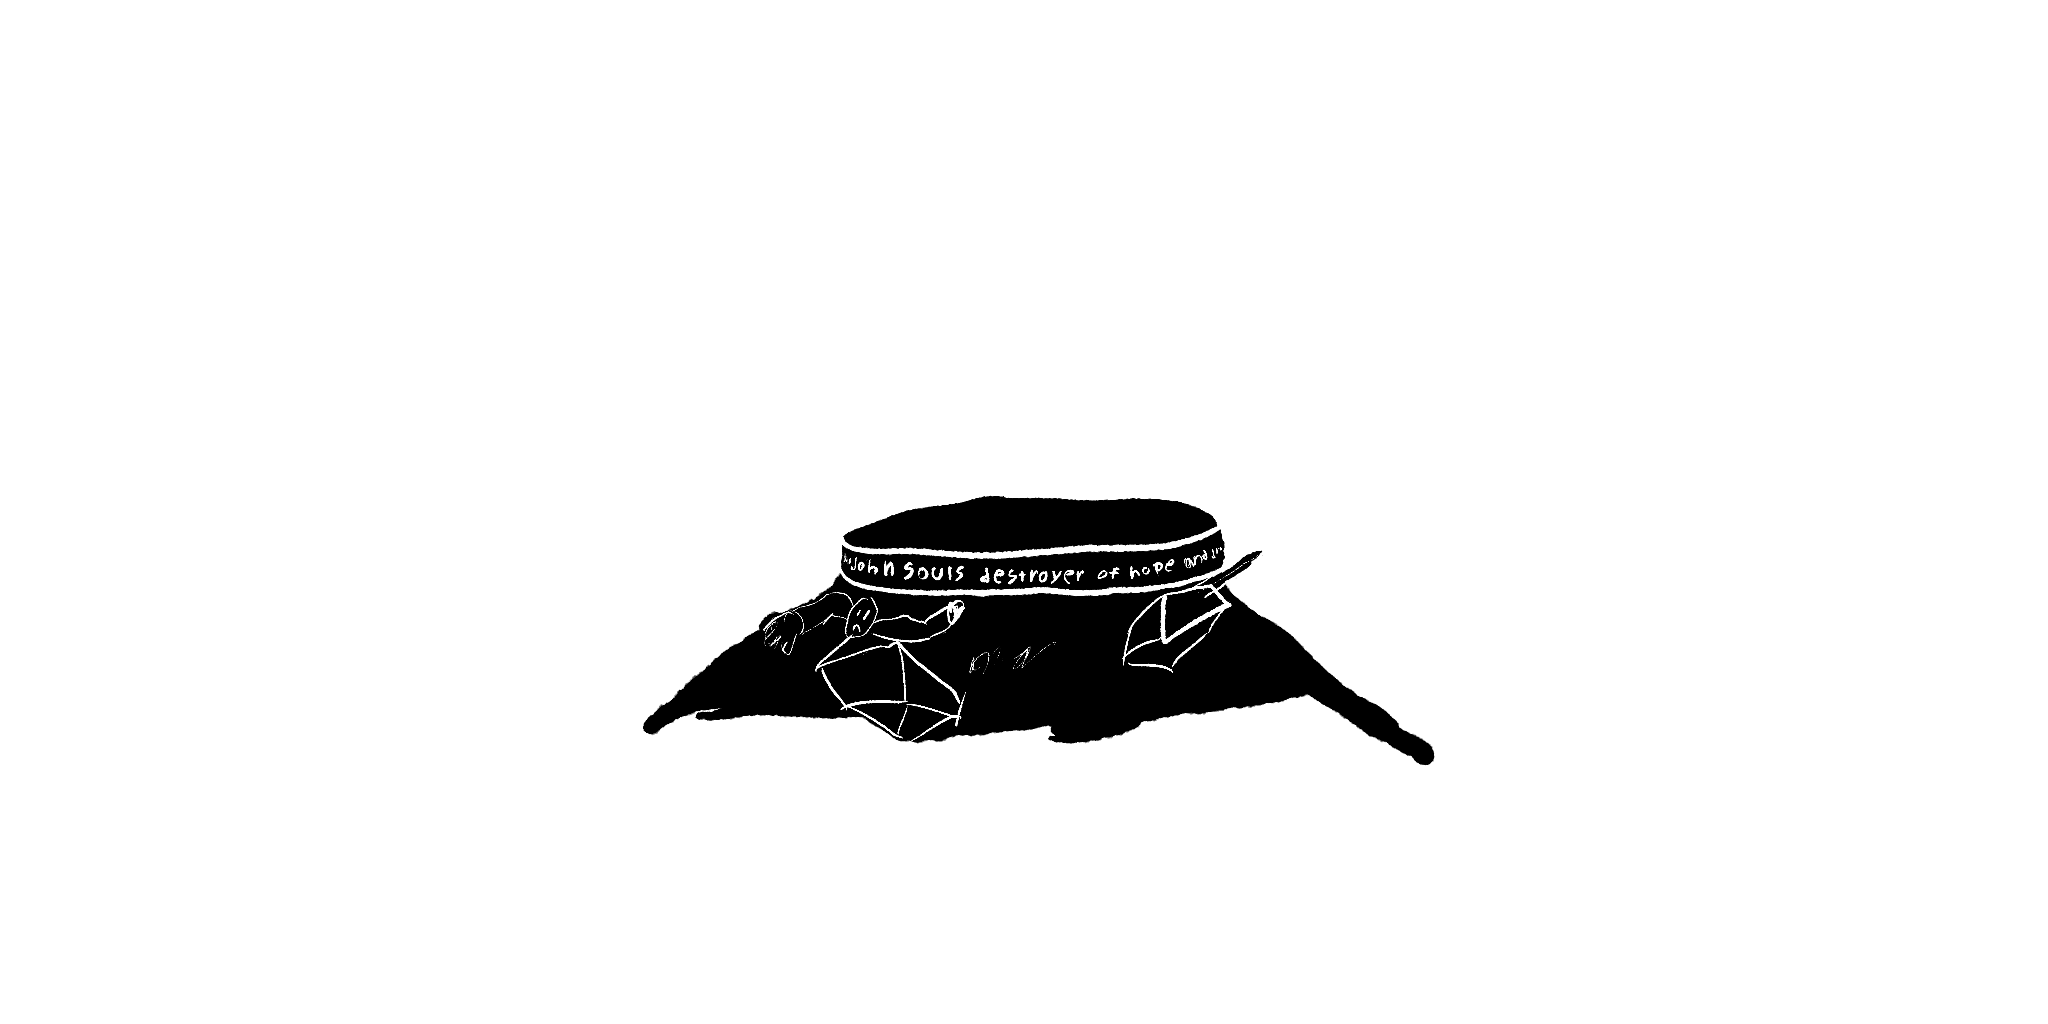
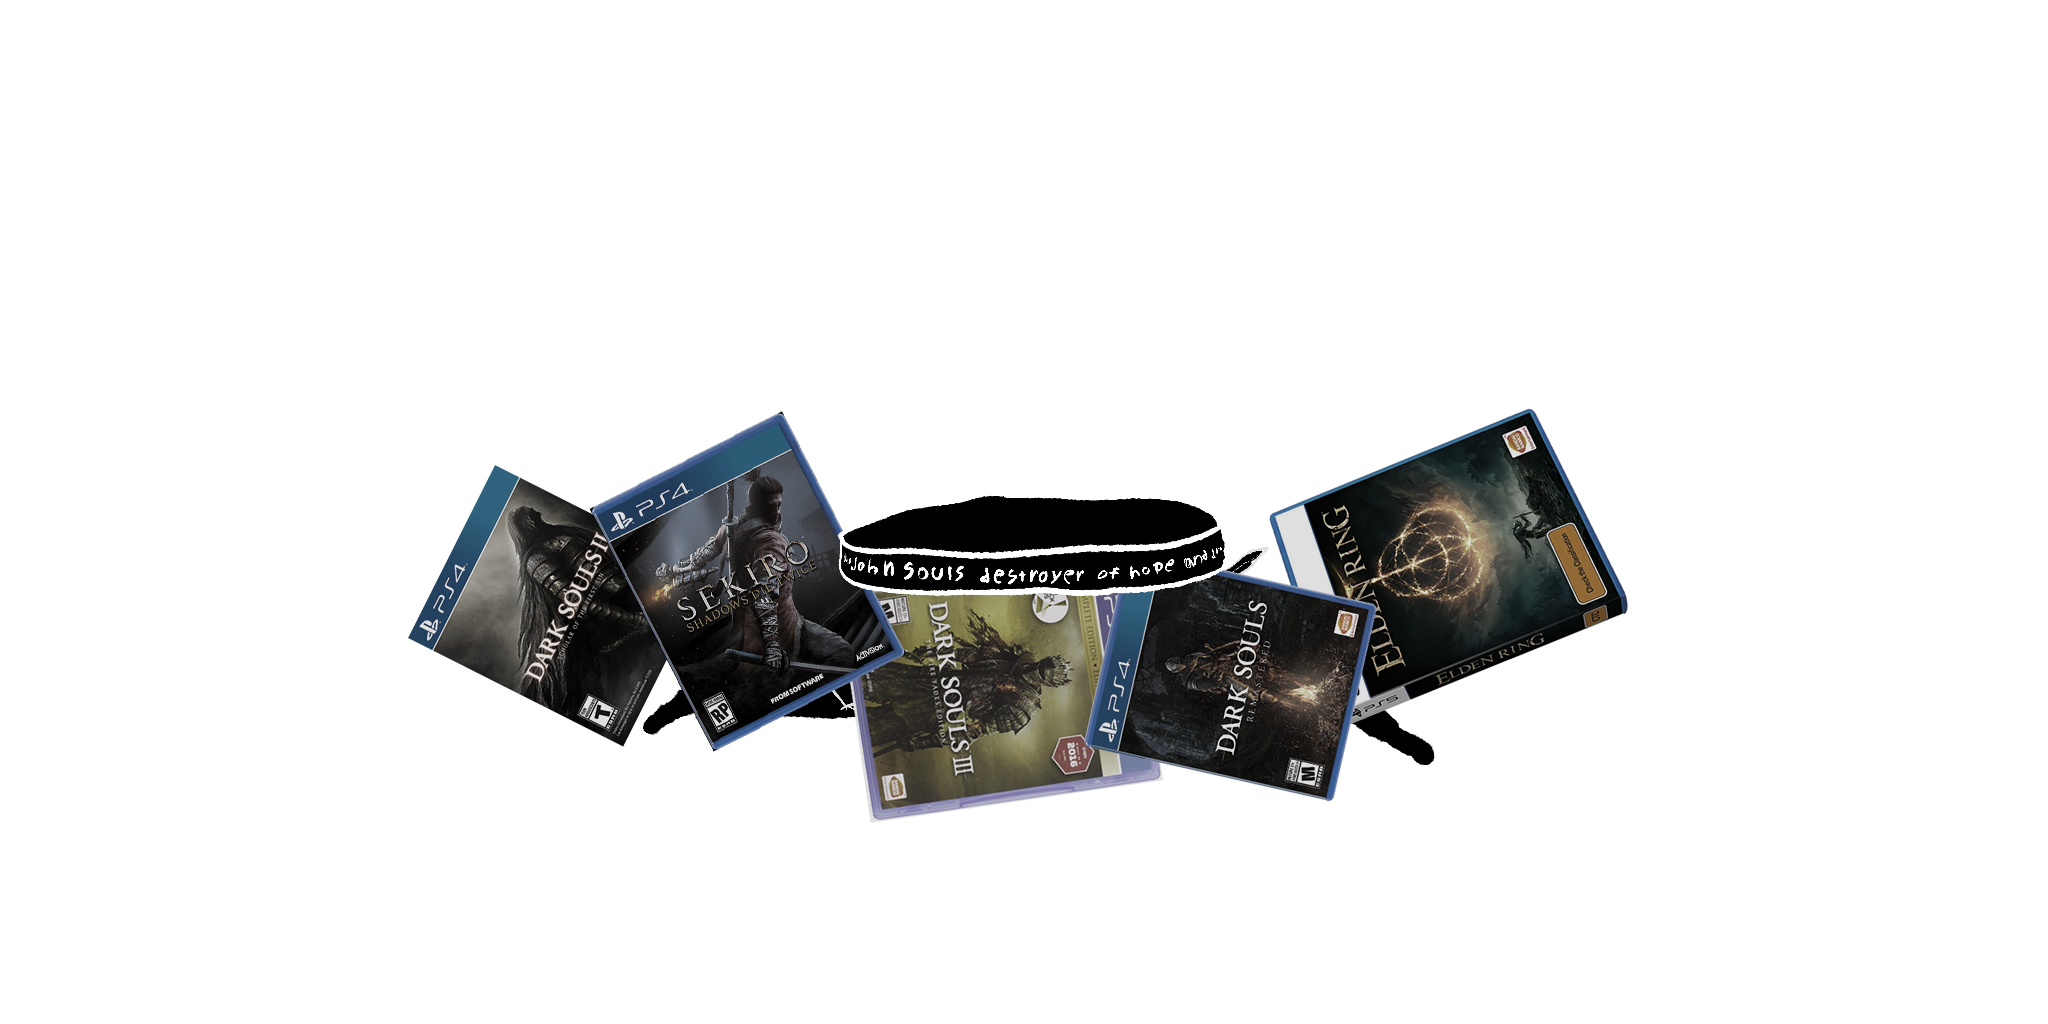
add floating game boxes

Changed region(s): [[0.1875, 0.4062, 0.8125, 0.8125]]

diff --git a/src/main.js b/src/main.js
@@ -58,6 +58,8 @@ camera.lookAt(0, 2.5, 0);
 
 const scene = new THREE.Scene();
 const renderer = new THREE.WebGLRenderer({ antialias: true });
+window.maxAnisotropy = renderer.capabilities.getMaxAnisotropy();
+
 renderer.setSize(window.innerWidth, window.innerHeight);
 
 function resize() {
@@ -94,6 +96,15 @@ function draw() {
 		}
 	}
 	lastFrame = Date.now();
+
+
+	for (let i = 0; i < boxArts.length; i++) {
+		const element = boxArts[i];
+		const p = Date.now() / 10000 + (i / boxArts.length) * Math.PI * 2;
+		element.position.x = Math.sin(p) * 5 + johnSoulsMesh.position.x;
+		element.position.z = Math.cos(p) * 5 + johnSoulsMesh.position.z;
+		element.rotation.z += delta * 0.1;
+	}
 
 
 	renderer.render(scene, camera);
@@ -227,23 +238,41 @@ const JohnHat = new THREE.Mesh(
 		color: 0xaaaaaa,
 	})
 )
+JohnHat.geometry.rotateY(Math.PI / 2);
 JohnHat.position.y += hatSize * 0.5 + JohnHeight * 0.16;
 JohnHat.position.x += JohnWidth * 0.118;
 johnSoulsMesh.add(JohnHat);
 
-const groundSize = 13;
 
-import floorImageURL from "./floor.png";
-const groundPlane = new THREE.Mesh(
-	new THREE.PlaneBufferGeometry(groundSize * 2, groundSize),
-	new THREE.MeshBasicMaterial({
-		map: new THREE.TextureLoader().load(floorImageURL),
-		transparent: true,
-	})
-);
-groundPlane.position.z = johnSoulsMesh.position.z - 1.1;
+/* game boxes */
+import newBoxArt from './boxart';
 
-scene.add(groundPlane);
+import demonsoulsURL from './games/demonsouls.png';
+const gamebox = newBoxArt(demonsoulsURL);
+gamebox.position.z = -3.8;
+gamebox.position.y = -0.35;
+gamebox.rotation.set(-Math.PI * 0.45, 0.02, 0.6 + Math.random() * 3);
+setInterval(() => {
+	gamebox.rotation.z += 0.0005;
+}, 16)
+scene.add(gamebox);
+
+
+import darkSoulsURL from './games/darksouls.png';
+import darkSouls2URL from './games/darksouls2.png';
+import darkSouls3URL from './games/darksouls3.png';
+import eldenringURL from './games/eldenring.png';
+const boxArts = [
+	newBoxArt(darkSoulsURL),
+	newBoxArt(darkSouls2URL),
+	newBoxArt(darkSouls3URL),
+	newBoxArt(eldenringURL),
+];
+for (let i = 0; i < boxArts.length; i++) {
+	scene.add(boxArts[i]);
+	boxArts[i].rotation.set(Math.random() * Math.PI * 2, Math.random() * Math.PI * 2, Math.random() * Math.PI * 2);
+	boxArts[i].scale.setScalar(2);
+}
 
 
 import generateShimmeryMat from "./shimmeryMaterial";
@@ -252,16 +281,16 @@ import generateCloudMat from "./cloudMaterial";
 
 
 scene.background = new THREE.Color(0x000E16);
-scene.fog = new THREE.Fog(0x000E16, 6, 160);
+scene.fog = new THREE.Fog(scene.background, 6, 160);
 
 
 const cloudGeometry = new THREE.PlaneBufferGeometry(400, 160, 1, 1);
 const cloudUniforms = {
-	u_time: { value: Math.random()*10000 },
+	u_time: { value: Math.random() * 10000 },
 }
 const cloudCanvas = document.createElement('canvas');
 const cloudCTX = cloudCanvas.getContext('2d');
-cloudCTX.fillStyle = '#fff';
+cloudCTX.fillStyle = "#ffffff";
 cloudCTX.fillRect(0, 0, cloudCanvas.width, cloudCanvas.height);
 const cloudMaterial = generateCloudMat({
 	map: new THREE.CanvasTexture(cloudCanvas),
@@ -283,3 +312,7 @@ scene.add(backLight1);
 const backLight2 = new THREE.DirectionalLight(0xffffff, 0.5);
 backLight2.position.set(0, 1, -1);
 scene.add(backLight2);
+
+const frontLight = new THREE.DirectionalLight(0xffffff, 0.15);
+frontLight.position.set(0, 0, 1);
+scene.add(frontLight);

diff --git a/src/index.html b/src/index.html
@@ -6,112 +6,6 @@
 	<meta http-equiv="X-UA-Compatible" content="IE=edge">
 	<meta name="viewport" content="width=device-width, initial-scale=1.0">
 	<title>John Souls</title>
-	<!--a fragment shader for perlin noise-->
-	<script id="SimpleVertexShader" type="x-shader/x-vertex">
-		varying vec2 vUv;
-		void main()
-		{
-			vUv = uv;
-			vec4 mvPosition = modelViewMatrix * vec4( position, 1.0 );
-			gl_Position = projectionMatrix * mvPosition;
-		}
-	</script>
-	<script id="simplexFragmentShader" type="x-shader/x-fragment">
-		#ifdef GL_ES
-		precision lowp float;
-		#endif
-		
-		uniform float u_time;
-		varying vec2 vUv;
-		
-		vec3 mod289(vec3 x) {
-			return x - floor(x * (1.0 / 289.0)) * 289.0;
-		}
-		vec4 mod289(vec4 x) {
-			return x - floor(x * (1.0 / 289.0)) * 289.0;
-		}
-		vec4 permute(vec4 x) {
-			return mod289(((x * 34.0) + 10.0) * x);
-		}
-		vec4 taylorInvSqrt(vec4 r) {
-			return 1.79284291400159 - 0.85373472095314 * r;
-		}
-		float snoise(vec3 v) {
-			const vec2  C = vec2(1.0 / 6.0, 1.0 / 3.0);
-			const vec4  D = vec4(0.0, 0.5, 1.0, 2.0);
-			
-			vec3 i = floor(v + dot(v, C.yyy));
-			vec3 x0 = v - i + dot(i, C.xxx);
-		
-			vec3 g = step(x0.yzx, x0.xyz);
-			vec3 l = 1.0 - g;
-			vec3 i1 = min(g.xyz, l.zxy);
-			vec3 i2 = max(g.xyz, l.zxy);
-		
-			vec3 x1 = x0 - i1 + C.xxx;
-			vec3 x2 = x0 - i2 + C.yyy; 
-			vec3 x3 = x0 - D.yyy;      
-		
-			i = mod289(i); 
-			vec4 p = permute(permute(permute( i.z + vec4(0.0, i1.z, i2.z, 1.0)) + i.y + vec4(0.0, i1.y, i2.y, 1.0)) + i.x + vec4(0.0, i1.x, i2.x, 1.0));
-		
-			float n_ = 0.142857142857; 
-			vec3  ns = n_ * D.wyz - D.xzx;
-			vec4 j = p - 49.0 * floor(p * ns.z * ns.z);  
-			vec4 x_ = floor(j * ns.z);
-			vec4 y_ = floor(j - 7.0 * x_);    
-			vec4 x = x_ * ns.x + ns.yyyy;
-			vec4 y = y_ * ns.x + ns.yyyy;
-			vec4 h = 1.0 - abs(x) - abs(y);
-			vec4 b0 = vec4(x.xy, y.xy);
-			vec4 b1 = vec4(x.zw, y.zw);
-		
-			vec4 s0 = floor(b0) * 2.0 + 1.0;
-			vec4 s1 = floor(b1) * 2.0 + 1.0;
-			vec4 sh = -step(h, vec4(0.0));
-			vec4 a0 = b0.xzyw + s0.xzyw * sh.xxyy;
-			vec4 a1 = b1.xzyw + s1.xzyw * sh.zzww;
-			vec3 p0 = vec3(a0.xy, h.x);
-			vec3 p1 = vec3(a0.zw, h.y);
-			vec3 p2 = vec3(a1.xy, h.z);
-			vec3 p3 = vec3(a1.zw, h.w);
-		
-			vec4 norm = taylorInvSqrt(vec4(dot(p0, p0), dot(p1, p1), dot(p2, p2), dot(p3, p3)));
-				p0 *= norm.x;
-				p1 *= norm.y;
-				p2 *= norm.z;
-				p3 *= norm.w;
-
-			vec4 m = max(0.5 - vec4(dot(x0, x0), dot(x1, x1), dot(x2, x2), dot(x3, x3)), 0.0);
-			m = m * m;
-			return 105.0 * dot(m * m, vec4(dot(p0, x0), dot(p1, x1), dot(p2, x2), dot(p3, x3)));
-		}
-
-		vec3 dim = vec3(0.0, 0.09, 0.149);
-
-		// original vec3(1.0, 0.93, 0.43);
-		vec3 highlight = vec3(0.045 * 1.4, 0.09 * 1.4, 0.149 * 1.4);
-		
-		void main() {
-
-			vec2 st = vUv;
-			st.x *= 1.0;
-		
-			vec3 color = vec3(0.0);
-		
-			// Scale the space in order to see the function
-			st *= 10.;
-
-			float alpha = .5 - snoise(vec3(st.x, st.y - u_time * 0.1, u_time * 0.01));
-			float mixVariable = alpha;
-			gl_FragColor = vec4(
-				mix(dim.x, highlight.x, mixVariable),
-				mix(dim.y, highlight.y, mixVariable),
-				mix(dim.z, highlight.z, mixVariable),
-				min(1.0, alpha) * 0.7
-			);
-		}
-	</script>
 </head>
 
 <body>

diff --git a/src/boxart.js b/src/boxart.js
@@ -1,0 +1,93 @@
+import * as THREE from 'three';
+
+const width = 0.8, height = 1;
+
+const shape = new THREE.Shape();
+shape.moveTo(0, 0);
+shape.lineTo(0, height);
+shape.lineTo(width, height);
+shape.lineTo(width, 0);
+shape.lineTo(0, 0);
+
+const extrudeSettings = {
+	steps: 2,
+	depth: 0.01,
+	bevelEnabled: true,
+	bevelThickness: 0.02,
+	bevelSize: 0.02,
+	bevelOffset: 0,
+	bevelSegments: 6,
+};
+const boxGeometry = new THREE.ExtrudeGeometry(shape, extrudeSettings);
+const disclaimerGeometry = new THREE.PlaneGeometry(width, height);
+disclaimerGeometry.rotateX(Math.PI);
+
+const artGeometry = new THREE.PlaneGeometry(width, height * 0.9);
+artGeometry.translate(0, -height * 0.05, 0);
+
+const headerGeometry = new THREE.PlaneGeometry(width, height * 0.1);
+headerGeometry.translate(0, height * 0.451, 0);
+import headerArtURL from './piss.png';
+const headerArt = new THREE.MeshPhongMaterial({
+	color: 0xffffff,
+	specular: 0xffffff,
+	shininess: 30,
+	map: new THREE.TextureLoader().load(headerArtURL),
+})
+headerArt.map.anisotropy = window.maxAnisotropy;
+
+
+const boxMaterial = new THREE.MeshPhongMaterial({
+	color: 0x6666ff,
+	transparent: true,
+	opacity: 0.95,
+	specular: 0xffffff,
+	shininess: 30,
+})
+
+const generate = (url) => {
+	const group = new THREE.Group();
+
+	const box = new THREE.Mesh(boxGeometry, boxMaterial);
+	group.add(box);
+
+
+	box.position.z -= extrudeSettings.depth + extrudeSettings.bevelThickness;
+	box.position.x -= width / 2;
+	box.position.y -= height / 2;
+
+	group.scale.setScalar(4);
+	group.position.z = 2;
+
+	const art = new THREE.Mesh(artGeometry, new THREE.MeshPhongMaterial({
+		color: 0xffffff,
+		map: new THREE.TextureLoader().load(url),
+		emissive: 0x111111,
+		shininess: 100,
+	}));
+	art.material.map.anisotropy = window.maxAnisotropy;
+	art.position.z = 0.0001;
+	group.add(art);
+
+	const header = new THREE.Mesh(headerGeometry, headerArt);
+	header.position.z = 0.0001;
+	group.add(header);
+
+	const artClone = art.clone();
+	artClone.position.z = box.position.z * 2 * 0.85;
+	artClone.rotation.y = Math.PI;
+	group.add(artClone);
+	const headerClone = header.clone();
+	headerClone.position.z = box.position.z * 2 * 0.85;
+	headerClone.rotation.y = Math.PI;
+	group.add(headerClone);
+
+	/*const disclaimer = new THREE.Mesh(disclaimerGeometry, new THREE.MeshPhongMaterial({
+		color: 0xffffff,
+		shininess: 100,
+	}));
+	disclaimer.position.z = box.position.z * 2 * 0.85;
+	group.add(disclaimer);*/
+	return group;
+}
+export default generate;

diff --git a/src/cloudMaterial.js b/src/cloudMaterial.js
@@ -1,7 +1,7 @@
 import * as THREE from 'three';
 import webGLSimplex3DNoise from './simplex3DShaderCode';
 
-function generateCloudMat(options) {
+function generateCloudMat(options = {}) {
 	let lastFrame = Date.now();
 	const tick = () => {
 		const delta = (Date.now() - lastFrame) / 1000;
@@ -13,15 +13,15 @@ function generateCloudMat(options) {
 	}
 	let uniforms = null;
 
-	const shimmeryMat = new THREE.MeshBasicMaterial({
-		...options
+	const cloudMat = new THREE.MeshBasicMaterial({
+		color: 0xffffff,
+		...options,
 	});
-	shimmeryMat.onBeforeCompile = function (shader) {
+	cloudMat.onBeforeCompile = function (shader) {
 		shader.uniforms.u_time = { value: Math.random() * 1000 };
 		uniforms = shader.uniforms;
 		tick();
-
-		shimmeryMat.userData.shader = shader;
+		cloudMat.userData.shader = shader;
 		shader.fragmentShader = `
 		uniform float u_time;
 		${webGLSimplex3DNoise.split('float snoiseOffset')[0]}
@@ -32,7 +32,7 @@ function generateCloudMat(options) {
 			vec3 dim = vec3(0.0, 0.09, 0.149);
 
 			// original vec3(1.0, 0.93, 0.43);
-			vec3 highlight = vec3(0.045 * 1.4, 0.09 * 1.4, 0.149 * 1.4);
+			vec3 highlight = vec3(0.045, 0.09, 0.149) * 2.5;
 			
 	
 			vec2 st = vUv;
@@ -43,23 +43,27 @@ function generateCloudMat(options) {
 			// Scale the space in order to see the function
 			st *= 10.;
 	
-			float alpha = .5 - snoise(vec3(st.x, st.y - u_time * 0.1, u_time * 0.01));
+			float alpha = 1.0 - snoise(vec3(st.x, st.y - u_time * 0.1, u_time * 0.01)) * 0.5;
 			float mixVariable = alpha;
-			diffuseColor *= vec4(
+			
+			mixVariable += snoise(vec3(st.x * 2.0, st.y * 2.0, u_time * 0.01)) * 0.25;
+			mixVariable += snoise(vec3(st.x * 4.0, st.y * 4.0, u_time * 0.01)) * 0.25;
+
+			diffuseColor = vec4(
 				mix(dim.x, highlight.x, mixVariable),
 				mix(dim.y, highlight.y, mixVariable),
 				mix(dim.z, highlight.z, mixVariable),
-				min(1.0, alpha) * 0.7
+				1.0
 			);
 		`)}`;
 	};
 
 	// Make sure WebGLRenderer doesn't reuse a single program
-	shimmeryMat.customProgramCacheKey = function () {
+	cloudMat.customProgramCacheKey = function () {
 		return parseInt(window.shaderPID++); // some random ish number
 	};
 
-	return shimmeryMat;
+	return cloudMat;
 }
 
 
